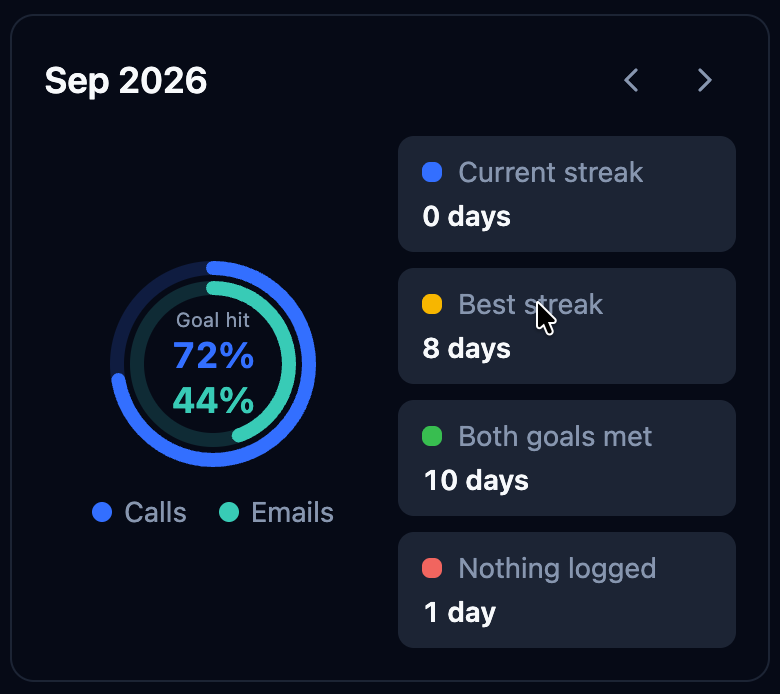
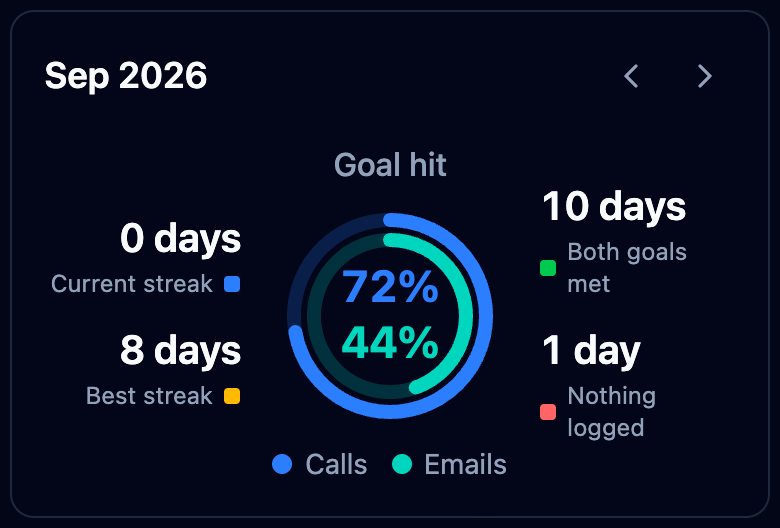
feat(GcMonthSummary): put the stats on both sides of the donut
- "Goal hit" moves above the donut; percentages grow to 22px
- Below 20rem: donut on top, stats as tiles, two per line
- From 20rem: first half of the stats before the donut, the rest after it
- From 32rem: two stats per side, with a coloured bar under each value
- Day counts stay on one line, long labels wrap instead of being cut
  off, and the legend wraps at 8rem so long ring names can't squeeze the stats
- Stat list moves to Stats.tsx; screen readers get the same dt/dd pairs
- README: layout notes and new light/dark screenshots (default, narrow, wide)

diff --git a/src/components/GcMonthSummary/GcMonthSummary.tsx b/src/components/GcMonthSummary/GcMonthSummary.tsx
@@ -16,25 +16,13 @@ import { useMonth } from "../../lib/useMonth";
 import { warn } from "../../lib/warn";
 import { Donut } from "./Donut";
 import { percentText, ringValue } from "./percent";
+import { Stats } from "./Stats";
 import type { GcMonthSummaryProps } from "./types";
 import { summaryWarnings } from "./warnings";
 
 // No frame: wrap in GcCard for one. A container, so the layout follows this element's width.
 // `relative` anchors the tooltip.
 const ROOT = "gcx:@container gcx:relative gcx:box-border gcx:text-gc-fg";
-
-// Full class literals so Tailwind generates them. `muted` uses the muted text colour because the
-// row background is --gc-muted.
-const TONE_DOTS = new Map<string, string>([
-  ["primary", "gcx:bg-gc-primary"],
-  ["success", "gcx:bg-gc-success"],
-  ["warning", "gcx:bg-gc-warning"],
-  ["danger", "gcx:bg-gc-danger"],
-  ["ring-1", "gcx:bg-gc-ring-1"],
-  ["ring-2", "gcx:bg-gc-ring-2"],
-  ["muted", "gcx:bg-gc-muted-fg"],
-]);
-const MUTED_DOT = "gcx:bg-gc-muted-fg";
 
 export const GcMonthSummary = forwardRef<HTMLDivElement, GcMonthSummaryProps>(
   function GcMonthSummary(
@@ -114,6 +102,8 @@ export const GcMonthSummary = forwardRef<HTMLDivElement, GcMonthSummaryProps>(
               typeof stat === "object" && stat !== null,
           )
         : [];
+    // The first half flanks the dial on the start side, the rest on the end side.
+    const half = Math.ceil(stats.length / 2);
     const values = shownRings.map((ring) =>
       ringValue(monthData?.rings?.[ring.id]),
     );
@@ -190,20 +180,21 @@ export const GcMonthSummary = forwardRef<HTMLDivElement, GcMonthSummaryProps>(
           <LiveText text={status} live={live} />
         </p>
         {(shownRings.length > 0 || stats.length > 0) && (
-          // Side by side once the content is 18rem wide (a GcCard of about 320px), else stacked.
-          <div className="gcx:mt-3 gcx:grid gcx:gap-4 gcx:@2xs:gap-x-2 gcx:@2xs:grid-cols-2 gcx:@2xs:items-center">
+          // Stacked (dial on top) below 20rem of content (a GcCard of about 350px), else the stats
+          // flank the dial. There the legend wraps at 8rem, so long ring labels can't squeeze them.
+          <div className="gcx:mt-4 gcx:grid gcx:gap-3 gcx:@xs:grid-cols-[minmax(0,1fr)_auto_minmax(0,1fr)] gcx:@xs:items-center gcx:@xs:gap-4 gcx:@lg:gap-6">
+            <Stats stats={stats.slice(0, half)} side="start" />
             {shownRings.length > 0 && (
               <div
                 aria-hidden="true"
-                className={cn(
-                  "gcx:flex gcx:flex-col gcx:items-center gcx:gap-2",
-                  stats.length === 0 && "gcx:@2xs:col-span-2",
-                )}
+                className="gcx:order-first gcx:mb-1 gcx:flex gcx:flex-col gcx:items-center gcx:gap-2 gcx:@xs:order-none gcx:@xs:col-start-2 gcx:@xs:mb-0"
               >
+                <div className="gcx:text-base gcx:font-medium gcx:text-gc-muted-fg">
+                  {goalHit}
+                </div>
                 <Donut
                   values={values}
                   texts={texts}
-                  centerLabel={goalHit}
                   onPointerEnter={(event) => {
                     if (event.pointerType === "mouse") setDonut(event.currentTarget);
                   }}
@@ -218,7 +209,7 @@ export const GcMonthSummary = forwardRef<HTMLDivElement, GcMonthSummaryProps>(
                   }}
                 />
                 {legend && (
-                  <ul className="gcx:m-0 gcx:flex gcx:list-none gcx:flex-wrap gcx:justify-center gcx:gap-x-4 gcx:gap-y-1 gcx:p-0 gcx:text-sm gcx:text-gc-muted-fg">
+                  <ul className="gcx:m-0 gcx:flex gcx:list-none gcx:flex-wrap gcx:justify-center gcx:gap-x-3 gcx:gap-y-1 gcx:p-0 gcx:text-sm gcx:text-gc-muted-fg gcx:@xs:max-w-32">
                     {shownRings.map((ring, i) => (
                       <li
                         key={i}
@@ -237,35 +228,7 @@ export const GcMonthSummary = forwardRef<HTMLDivElement, GcMonthSummaryProps>(
                 )}
               </div>
             )}
-            {stats.length > 0 && (
-              <dl
-                className={cn(
-                  "gcx:m-0 gcx:grid gcx:min-w-0 gcx:grid-cols-2 gcx:gap-2 gcx:@2xs:grid-cols-1",
-                  shownRings.length === 0 && "gcx:@2xs:col-span-2",
-                )}
-              >
-                {stats.map((stat, i) => (
-                  <div
-                    key={i}
-                    className="gcx:flex gcx:min-w-0 gcx:flex-wrap gcx:items-center gcx:justify-between gcx:gap-x-3 gcx:gap-y-0.5 gcx:rounded-lg gcx:bg-gc-muted gcx:px-3 gcx:py-2"
-                  >
-                    <dt className="gcx:m-0 gcx:flex gcx:min-w-0 gcx:items-center gcx:gap-2 gcx:text-sm gcx:text-gc-muted-fg">
-                      <span
-                        aria-hidden="true"
-                        className={cn(
-                          "gcx:size-2.5 gcx:shrink-0 gcx:rounded-sm",
-                          TONE_DOTS.get(stat.tone ?? "muted") ?? MUTED_DOT,
-                        )}
-                      />
-                      <span className="gcx:truncate">{stat.label}</span>
-                    </dt>
-                    <dd className="gcx:m-0 gcx:text-sm gcx:font-semibold gcx:whitespace-nowrap gcx:tabular-nums">
-                      {stat.value}
-                    </dd>
-                  </div>
-                ))}
-              </dl>
-            )}
+            <Stats stats={stats.slice(half)} side="end" />
           </div>
         )}
         {donut && hasContent(tooltip) && (

diff --git a/src/components/GcMonthSummary/Stats.tsx b/src/components/GcMonthSummary/Stats.tsx
@@ -1,0 +1,85 @@
+import type { ReactNode } from "react";
+import { cn } from "../../lib/cn";
+
+export type Stat = { label: ReactNode; value: ReactNode; tone?: string };
+
+// Full class literals so Tailwind generates them. `muted` uses the muted text colour because the
+// narrow tiles' background is --gc-muted.
+const TONES = new Map<string, string>([
+  ["primary", "gcx:bg-gc-primary"],
+  ["success", "gcx:bg-gc-success"],
+  ["warning", "gcx:bg-gc-warning"],
+  ["danger", "gcx:bg-gc-danger"],
+  ["ring-1", "gcx:bg-gc-ring-1"],
+  ["ring-2", "gcx:bg-gc-ring-2"],
+  ["muted", "gcx:bg-gc-muted-fg"],
+]);
+const MUTED = "gcx:bg-gc-muted-fg";
+
+// Narrow: a 2-column grid of tiles. @xs: one column flanking the dial. @lg: 2 columns again.
+const LIST =
+  "gcx:m-0 gcx:grid gcx:min-w-0 gcx:grid-cols-2 gcx:gap-2 gcx:@xs:grid-cols-1 gcx:@xs:gap-3 gcx:@lg:grid-cols-2";
+const ITEM =
+  "gcx:flex gcx:min-w-0 gcx:flex-col gcx:items-center gcx:gap-0.5 gcx:rounded-lg gcx:bg-gc-muted gcx:p-2 gcx:text-center gcx:@xs:rounded-none gcx:@xs:bg-transparent gcx:@xs:p-0 gcx:@lg:gap-1.5";
+// Each side keeps its column without rings and aligns toward the dial; the start side puts its
+// dot after the label, next to the dial.
+const SIDE = {
+  start: {
+    list: "gcx:@xs:col-start-1",
+    item: "gcx:@xs:items-end gcx:@xs:text-end",
+    term: "gcx:@xs:flex-row-reverse",
+  },
+  end: {
+    list: "gcx:@xs:col-start-3",
+    item: "gcx:@xs:items-start gcx:@xs:text-start",
+    term: "",
+  },
+} as const;
+
+// The value comes after its label in the DOM (dt before dd) but shows first via `order-first`.
+// From @lg the tone shows as a bar under the value instead of a dot.
+export function Stats({
+  stats,
+  side,
+}: {
+  stats: readonly Stat[];
+  side: keyof typeof SIDE;
+}) {
+  if (stats.length === 0) return null;
+  return (
+    <dl className={cn(LIST, SIDE[side].list)}>
+      {stats.map((stat, i) => {
+        const tone = TONES.get(stat.tone ?? "muted") ?? MUTED;
+        return (
+          <div key={i} className={cn(ITEM, SIDE[side].item)}>
+            <dt
+              className={cn(
+                "gcx:m-0 gcx:flex gcx:min-w-0 gcx:max-w-full gcx:items-center gcx:gap-1.5 gcx:text-xs gcx:text-gc-muted-fg",
+                SIDE[side].term,
+              )}
+            >
+              <span
+                aria-hidden="true"
+                className={cn(
+                  "gcx:size-2 gcx:shrink-0 gcx:rounded-xs gcx:@lg:hidden",
+                  tone,
+                )}
+              />
+              <span className="gcx:min-w-0 gcx:break-words">{stat.label}</span>
+            </dt>
+            <dd className="gcx:order-first gcx:m-0 gcx:self-stretch gcx:text-xl/[26px] gcx:font-semibold gcx:whitespace-nowrap gcx:tabular-nums gcx:@lg:text-[22px]/7">
+              {stat.value}
+              <span
+                aria-hidden="true"
+                className={cn(
+                  "gcx:mt-1.5 gcx:hidden gcx:h-0.5 gcx:rounded-full gcx:@lg:block",
+                  tone,
+                )}
+              />
+            </dd>
+          </div>
+        );
+      })}
+    </dl>
+  );
+}

diff --git a/tests/GcMonthSummary.spec.tsx b/tests/GcMonthSummary.spec.tsx
@@ -163,15 +163,11 @@ describe("GcMonthSummary root element", () => {
 
 describe("GcMonthSummary donut", () => {
   // jsdom computes no layout, so pin the classes that keep the text inside the 69px hole: the
-  // percent lines set their own line height (--tw-leading doesn't inherit), the label is capped.
+  // percent lines set their own line height (--tw-leading doesn't inherit).
   it("sizes the centre text to fit inside the inner ring", () => {
     renderSummary();
-    expect(screen.getByText("78%")).toHaveClass("gcx:text-lg/tight");
-    expect(screen.getByText("61%")).toHaveClass("gcx:text-lg/tight");
-    expect(screen.getByText("Goal hit")).toHaveClass(
-      "gcx:max-w-[44px]",
-      "gcx:truncate",
-    );
+    expect(screen.getByText("78%")).toHaveClass("gcx:text-[22px]/[1.25]");
+    expect(screen.getByText("61%")).toHaveClass("gcx:text-[22px]/[1.25]");
   });
 
   it("announces the month and each ring's share", () => {
@@ -181,7 +177,7 @@ describe("GcMonthSummary donut", () => {
     );
   });
 
-  it("shows the centre label and both percentages, hidden from assistive tech", () => {
+  it("shows the label and both percentages, hidden from assistive tech", () => {
     const { container } = renderSummary();
     expect(
       screen.getByText("78%").closest("[aria-hidden='true']"),
@@ -504,7 +500,8 @@ describe("GcMonthSummary tooltip", () => {
       hidden: true,
     });
   // The donut is aria-hidden too; its centre label is inside it.
-  const donut = () => screen.getByText("Goal hit");
+  // The label sits right above the donut, which is the hover and tap target.
+  const donut = () => screen.getByText("Goal hit").nextElementSibling as HTMLElement;
 
   it("shows Goal hit, the month and each ring's percentage while the mouse is over the donut", async () => {
     const user = userEvent.setup();

diff --git a/src/components/GcMonthSummary/Donut.tsx b/src/components/GcMonthSummary/Donut.tsx
@@ -6,16 +6,14 @@ import { Rings } from "../../lib/Rings";
 const TEXT = ["gcx:text-gc-ring-1-text", "gcx:text-gc-ring-2-text"] as const;
 
 // `null` values draw a bare track and a dash: the month or ring has no number.
-// The hole inside r 38 / stroke 7 is 69px across: a 12.5px label line + two 22.5px lines fit.
+// The hole inside r 38 / stroke 7 is 69px across: two 27.5px lines fit.
 export function Donut({
   values,
   texts,
-  centerLabel,
   ...rest
 }: {
   values: readonly (number | null)[];
   texts: readonly (string | null)[];
-  centerLabel: string;
 } & ComponentPropsWithoutRef<"div">) {
   return (
     <div {...rest} className="gcx:relative gcx:size-28 gcx:shrink-0">
@@ -27,14 +25,11 @@ export function Donut({
         className="gcx:block gcx:size-full"
       />
       <div className="gcx:absolute gcx:inset-0 gcx:flex gcx:flex-col gcx:items-center gcx:justify-center gcx:text-center gcx:leading-tight">
-        <span className="gcx:max-w-[44px] gcx:truncate gcx:text-[10px] gcx:text-gc-muted-fg">
-          {centerLabel}
-        </span>
         {texts.map((text, i) => (
           <span
             key={i}
             className={cn(
-              "gcx:text-lg/tight gcx:font-bold gcx:tabular-nums gcx:whitespace-nowrap",
+              "gcx:text-[22px]/[1.25] gcx:font-bold gcx:tabular-nums gcx:whitespace-nowrap",
               text === null ? "gcx:text-gc-muted-fg" : TEXT[i],
             )}
           >

diff --git a/playground/App.tsx b/playground/App.tsx
@@ -246,8 +246,17 @@ export function App() {
           />
         </GcCard>
 
+        <h3>Wide card</h3>
+        <GcCard style={{ maxWidth: 640 }}>
+          <GcMonthSummary
+            rings={GOALS}
+            data={SUMMARY_DATA}
+            today="2026-09-24"
+          />
+        </GcCard>
+
         <h3>Just past the side-by-side breakpoint, long ring labels</h3>
-        <GcCard style={{ maxWidth: 330 }}>
+        <GcCard style={{ maxWidth: 360 }}>
           <GcMonthSummary
             rings={[
               { ...GOALS[0], label: "Jobs applied" },

diff --git a/README.md b/README.md
@@ -8,7 +8,7 @@ Presentational React components for goal tracking: progress-ring calendars, summ
 </picture>
 <picture>
   <source media="(prefers-color-scheme: dark)" srcset="https://raw.githubusercontent.com/Gsync/react-goal-calendar/main/.github/assets/goal-summary-dark.png">
-  <img alt="A month summary with a two-ring donut of goal-hit percentages and four stat rows" src="https://raw.githubusercontent.com/Gsync/react-goal-calendar/main/.github/assets/goal-summary-light.png" width="380">
+  <img alt="A month summary with a two-ring donut of goal-hit percentages and two stats on each side" src="https://raw.githubusercontent.com/Gsync/react-goal-calendar/main/.github/assets/goal-summary-light.png" width="380">
 </picture>
 
 **[Live demo](https://gsync.github.io/react-goal-calendar/)**
@@ -276,7 +276,7 @@ disagree on the date and cause a hydration mismatch.
 
 <picture>
   <source media="(prefers-color-scheme: dark)" srcset="https://raw.githubusercontent.com/Gsync/react-goal-calendar/main/.github/assets/goal-summary-dark.png">
-  <img alt="A month summary with a two-ring donut of goal-hit percentages and four stat rows" src="https://raw.githubusercontent.com/Gsync/react-goal-calendar/main/.github/assets/goal-summary-light.png" width="380">
+  <img alt="A month summary with a two-ring donut of goal-hit percentages and two stats on each side" src="https://raw.githubusercontent.com/Gsync/react-goal-calendar/main/.github/assets/goal-summary-light.png" width="380">
 </picture>
 
 A month at a glance: a donut with the share of days each goal was hit, and rows of numbers such as
@@ -345,8 +345,9 @@ const [month, setMonth] = useState("2026-09");
 
 `Stat` is `{ label: ReactNode; value: ReactNode; tone?: "primary" | "success" | "warning" | "danger"
 | "ring-1" | "ring-2" | "muted" }`. Your app writes the text ("8 days"), so plurals and translation
-are yours. `tone` colours the row's dot (default `"muted"`). A label too long for its row is cut
-off with an ellipsis; keep labels short. To name these shapes in your code, use
+are yours. `tone` colours the row's dot, or the bar under its value in the wide layout (default
+`"muted"`). A label too long for its row wraps onto a second line; keep labels short. To name these
+shapes in your code, use
 `GcMonthSummaryProps["data"]`.
 
 **Ring values are fractions: pass `0.78` for 78%.** The first ring is the outer one, coloured like
@@ -366,8 +367,19 @@ each ring with its value from `data`, or `null` when it has none), return `null`
 pass `renderTooltip={null}` to turn it off. By default a month without any value shows none. It uses
 the calendar's `--gc-tooltip-bg` and `--gc-tooltip-fg`.
 
-**Layout.** The component sizes itself to its own width: from 18rem (a `GcCard` at least 322px
-wide) the rows sit to the right of the donut; narrower, they move below it in two columns.
+**Layout.** The component sizes itself to its own width. Narrower than 20rem (a `GcCard` under
+354px), the donut sits on top with the rows as tiles below it, two per line. From 20rem the first
+half of the rows sits before the donut and the rest after it, one per line; from 32rem (a `GcCard`
+of 546px or more) each side shows two rows per line, with a coloured bar under each value.
+
+<picture>
+  <source media="(prefers-color-scheme: dark)" srcset="https://raw.githubusercontent.com/Gsync/react-goal-calendar/main/.github/assets/goal-summary-narrow-dark.png">
+  <img alt="The narrow layout: the donut on top and four stat tiles below it, two per line" src="https://raw.githubusercontent.com/Gsync/react-goal-calendar/main/.github/assets/goal-summary-narrow-light.png" width="280">
+</picture>
+<picture>
+  <source media="(prefers-color-scheme: dark)" srcset="https://raw.githubusercontent.com/Gsync/react-goal-calendar/main/.github/assets/goal-summary-wide-dark.png">
+  <img alt="The wide layout: two stats on each side of the donut, each with a coloured bar under its value" src="https://raw.githubusercontent.com/Gsync/react-goal-calendar/main/.github/assets/goal-summary-wide-light.png" width="640">
+</picture>
 
 **Accessibility.** The donut and legend are hidden from assistive tech; one visually hidden
 sentence carries the result ("September 2026. Goal hit: Calls 78%, Emails 61%") and is announced

diff --git a/.changeset/summary-scoreboard-layout.md b/.changeset/summary-scoreboard-layout.md
@@ -1,0 +1,5 @@
+---
+"react-goal-calendar": patch
+---
+
+GcMonthSummary: new layout. "Goal hit" sits above the donut with larger percentages, and the stat rows flank the donut (first half before it, the rest after it) once the component is 20rem wide, with a coloured bar under each value from 32rem. Narrower, the rows show as tiles below the donut. Long stat labels now wrap instead of being cut off.
